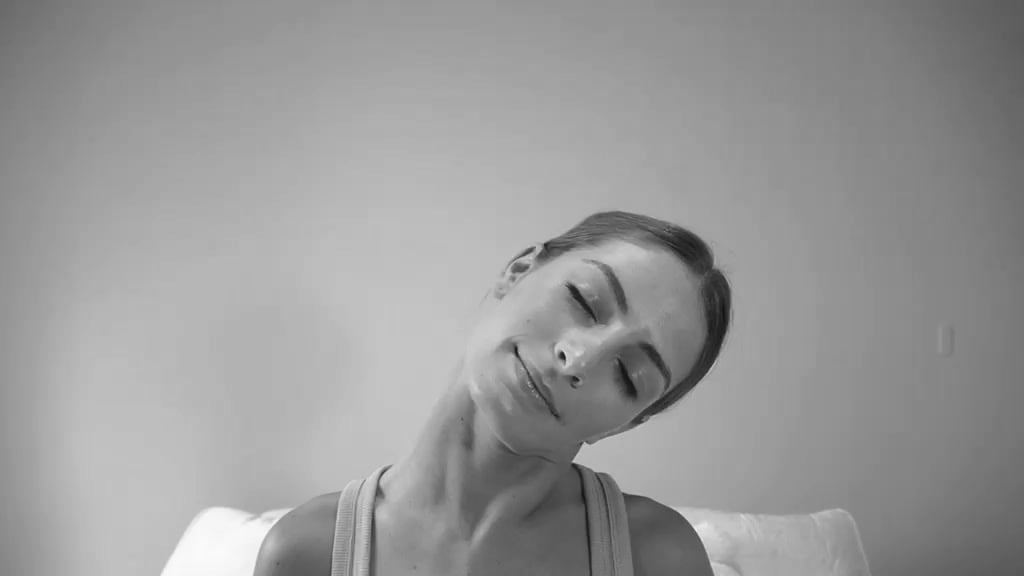
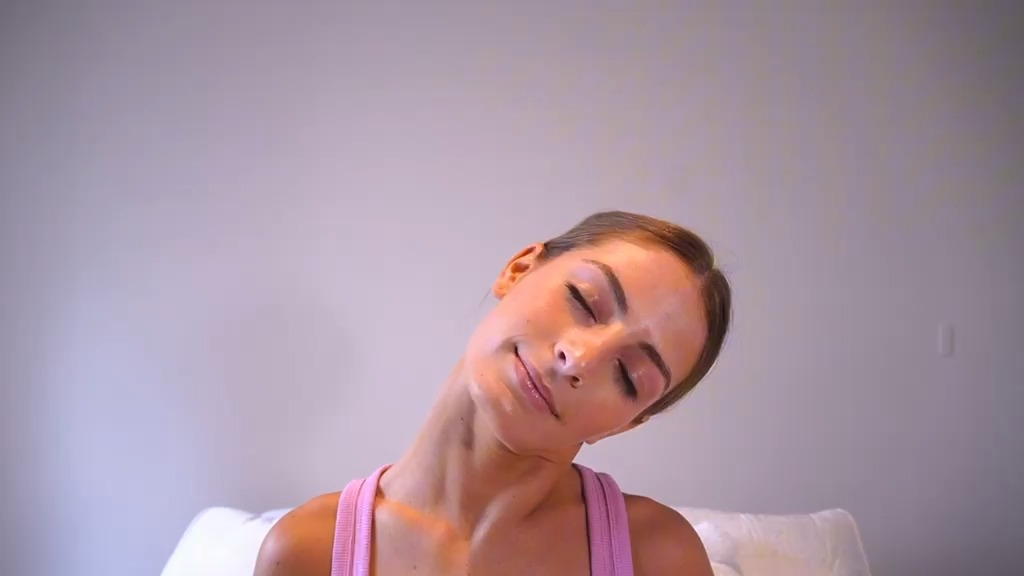
Áreas (home): portadas desaturadas que toman color con el cursor y apertura de paneles suave
El transition de .panel lo pisaba .js [data-reveal], así que flex-grow no se
animaba y el panel se abría de golpe.

Changed region(s): [[0.25, 0.3438, 0.8125, 1.0], [0.0, 0.4688, 0.25, 1.0]]

diff --git a/css/styles.css b/css/styles.css
@@ -580,8 +580,14 @@ a.highlight__frame:focus-visible { outline: 3px solid var(--blue); outline-offse
   overflow: hidden;
   /* Movimiento orgánico: arranque y frenado suaves, sin golpe al final.
      --panel-dur / --ease-organic controlan el "peso" de la apertura. */
-  --panel-dur: 1.1s;
-  transition: flex-grow var(--panel-dur) var(--ease-organic), border-radius var(--panel-dur) var(--ease-organic);
+  --panel-dur: 1.4s;
+  --ease-panel: cubic-bezier(.37, 0, .4, 1); /* sin pico de velocidad en el medio */
+}
+/* Con [data-reveal] para ganarle a `.js [data-reveal]`, que si no pisa el
+   transition y el panel se abre de golpe (sin animar flex-grow) */
+.js .panel[data-reveal], .panel {
+  transition: flex-grow var(--panel-dur) var(--ease-panel), border-radius var(--panel-dur) var(--ease-panel),
+    opacity .9s var(--ease-out), transform .9s var(--ease-out);
 }
 .panel--red    { --bg: var(--red); }
 .panel--blue   { --bg: var(--blue); --fg: var(--white); }
@@ -621,26 +627,26 @@ a.highlight__frame:focus-visible { outline: 3px solid var(--blue); outline-offse
 .panel__body[hidden] { display: none; }
 /* Panel abierto: crece y muestra el detalle; el título pasa a horizontal */
 .panel.is-open { flex-grow: 5; border-radius: clamp(24px, 3vw, 48px); }
-.panel.is-open .panel__body { opacity: 1; visibility: visible; transition: opacity .5s .15s var(--ease-organic), visibility 0s; }
+.panel.is-open .panel__body { opacity: 1; visibility: visible; transition: opacity .9s .2s var(--ease-panel), visibility 0s; }
 
 /* El título cambia de vertical a horizontal: en vez de saltar, se disuelve
    y vuelve a aparecer (dos nombres de animación para que se reinicie
    tanto al abrir como al cerrar). */
 .panel__title { animation: panel-title-closed .7s .15s var(--ease-organic) both; }
-.panel.is-open .panel__title { animation: panel-title-open .8s .3s var(--ease-organic) both; }
+.panel.is-open .panel__title { animation: panel-title-open 1.1s .5s var(--ease-panel) both; }
 @keyframes panel-title-closed { from { opacity: 0; filter: blur(6px); } }
 @keyframes panel-title-open { from { opacity: 0; filter: blur(8px); translate: 0 16px; } }
 
 /* El contenido entra en cascada: texto, tags, "Ver todo" */
-.panel.is-open .panel__body > div > * { animation: panel-rise .9s var(--ease-organic) both; }
-.panel.is-open .panel__body > div > :nth-child(1) { animation-delay: .38s; }
-.panel.is-open .panel__body > div > :nth-child(2) { animation-delay: .46s; }
-.panel.is-open .panel__body > div > :nth-child(3) { animation-delay: .54s; }
+.panel.is-open .panel__body > div > * { animation: panel-rise 1.2s var(--ease-panel) both; }
+.panel.is-open .panel__body > div > :nth-child(1) { animation-delay: .6s; }
+.panel.is-open .panel__body > div > :nth-child(2) { animation-delay: .72s; }
+.panel.is-open .panel__body > div > :nth-child(3) { animation-delay: .84s; }
 @keyframes panel-rise { from { opacity: 0; translate: 0 18px; } }
 
 /* La imagen se abre desde adentro y se asienta */
-.panel.is-open .panel__media { animation: panel-media .2s .1s both, panel-media-open 1.2s .25s var(--ease-organic) both; }
-.panel.is-open .panel__media > * { animation: panel-media-zoom 1.6s .25s var(--ease-organic) both; }
+.panel.is-open .panel__media { animation: panel-media .7s .2s var(--ease-panel) both, panel-media-open 1.7s .2s var(--ease-panel) both; }
+.panel.is-open .panel__media > * { animation: panel-media-zoom 2.2s .2s var(--ease-panel) both; }
 @keyframes panel-media { from { opacity: 0; } }
 @keyframes panel-media-open { from { clip-path: inset(12% 10% 12% 10% round 40px); } to { clip-path: inset(0 round 0); } }
 @keyframes panel-media-zoom { from { scale: 1.12; } }
@@ -655,7 +661,14 @@ a.highlight__frame:focus-visible { outline: 3px solid var(--blue); outline-offse
 .panel__tags { display: flex; flex-wrap: wrap; gap: 6px; list-style: none; padding: 0; margin: 0; }
 .panel__tags li { border: 1.5px solid currentColor; border-radius: var(--radius-pill); padding: 3px 10px; font-size: 11px; font-weight: 700; }
 .panel__media { grid-column: 2; grid-row: 1; margin: 0; border-radius: clamp(18px, 2vw, 32px); overflow: hidden; width: 100%; height: 100%; min-height: 0; }
-.panel__media img { width: 100%; height: 100%; object-fit: cover; }
+/* Desaturada; toma su color original con el cursor sobre el área (o con el
+   foco del teclado). En pantallas táctiles no hay cursor: color al abrirse. */
+.panel__media img {
+  width: 100%; height: 100%; object-fit: cover;
+  filter: grayscale(1); transition: filter .9s var(--ease-panel);
+}
+.panel:hover .panel__media img, .panel:has(:focus-visible) .panel__media img { filter: none; }
+@media (hover: none) { .panel.is-open .panel__media img { filter: none; } }
 .panel__placeholder {
   width: 100%; height: 100%; display: grid; place-items: center; gap: 0;
   background: color-mix(in srgb, var(--bg) 70%, white);

diff --git a/js/config.js b/js/config.js
@@ -94,7 +94,8 @@ window.SITE_CONFIG = {
                  horizontal del resumen del final (si no está, usa el `pos` de la foto 1).
      La primera imagen de cada proyecto se muestra más grande.
      color: clave de la paleta (red | blue | yellow | green | orange)
-     image: imagen de muestra (null = placeholder con los signos de la marca)
+     image: imagen de muestra en color; en el home se ve desaturada y toma color
+            con el cursor (null = placeholder con los signos de la marca)
      imagePos (opcional): qué parte de la portada se ve en el panel, ej. "64% 50%" */
   services: [
     {
@@ -183,8 +184,8 @@ window.SITE_CONFIG = {
       subtitle: "Visiones que se mueven",   // se ve en el menú desplegable de "Áreas"
       text: "Traduzco una visión en algo que se mueve. Ordeno ideas, tiempos y personas para que la pieza diga lo que tiene que decir, y no un poco más.",
       tags: ["Producción ejecutiva","Guion","Dirección creativa","Casting","Coordinación de rodaje","Dirección de arte","Supervisión de edición"],   // 7 palabras clave: roles
-      image: "assets/img/portada-fashion-films.jpg",   // fotograma del segundo 8 de «Lo que ha sido pesado», en blanco y negro
-      imageAlt: "Fotograma en blanco y negro: una mujer con los ojos cerrados y la cabeza inclinada",
+      image: "assets/img/portada-fashion-films.jpg",   // fotograma del segundo 8 de «Lo que ha sido pesado»
+      imageAlt: "Fotograma: una mujer con los ojos cerrados y la cabeza inclinada",
       imagePos: "64% 50%",   // encuadre de la portada en el panel (centra la cara)
       projects: [
       {
@@ -223,8 +224,8 @@ window.SITE_CONFIG = {
       subtitle: "Lo evidente, dos veces",   // se ve en el menú desplegable de "Áreas"
       text: "Relevamiento de diseñadores y temporadas para detectar tendencias micro y macro, traducidas en cartas de materiales, conceptos y nuevas tipologías.",
       tags: ["Investigación de tendencias","Coolhunting","Análisis cultural","Lectura de consumo","Moodboards","Reportes de tendencias","Forecasting"],   // 7 palabras clave: roles
-      image: "assets/img/portada-trendforecast.jpg",   // página 3 de Pre adolescentes, en blanco y negro
-      imageAlt: "Nena con capucha tejida y trenzas, en blanco y negro",
+      image: "assets/img/trend/pre-adolescentes/03.jpg",   // página 3 de Pre adolescentes
+      imageAlt: "Nena con capucha tejida y trenzas",
       /* En los cuadernos: `images` son las páginas del PDF (con paginas()),
          `pageRatio` es ancho ÷ alto de UNA página y `pdf` es el archivo que
          se descarga con el botón "Descargar PDF". */
@@ -284,8 +285,8 @@ window.SITE_CONFIG = {
       subtitle: "Lo que no se ve, también se edita",   // se ve en el menú desplegable de "Áreas"
       text: "La parte que no se ve y que hace que todo se vea. Selecciono, retoco y ajusto hasta que la imagen diga lo que tenía que decir, y no un poco más.",
       tags: ["Selección de material","Retoque fotográfico","Corrección de color","Edición","Montaje","Adaptación de formatos","Entrega final"],   // 7 palabras clave: roles
-      image: "assets/img/portada-postproduccion.jpg",   // imagen 4 de Limón, en blanco y negro
-      imageAlt: "Rodaja de limón dentro de un marco antiguo de espejo, en blanco y negro",
+      image: "assets/img/limon/04.jpg",
+      imageAlt: "Rodaja de limón dentro de un marco antiguo de espejo",
       imagePos: "35% 50%",   // encuadre de la portada en el panel (muestra el marco entero)
       projects: [
       {
@@ -329,8 +330,8 @@ window.SITE_CONFIG = {
       subtitle: "Sistema, signos y concepto",   // se ve en el menú desplegable de "Áreas"
       text: "Construyo algo complejo a partir de recursos simples. Color, tipografía, signos y composición funcionando como un mismo lenguaje. Esta marca es la prueba.",
       tags: ["Dirección artística","Concepto creativo","Identidad visual","Estrategia de marca","Campañas","Relaciones públicas","Comunicación"],   // 7 palabras clave: roles
-      image: "assets/img/portada-direccion-artistica.jpg",   // imagen 2 de Recreación obra pictórica, en blanco y negro
-      imageAlt: "Recreación de una pintura: mujer con cofia arreglando rosas, en blanco y negro",
+      image: "assets/img/recreacion-obra-pictorica/02.jpg",
+      imageAlt: "Recreación de una pintura: mujer con cofia arreglando rosas",
       projects: [
       {
         title: "[Lu - cía]® — Identidad de marca personal",
